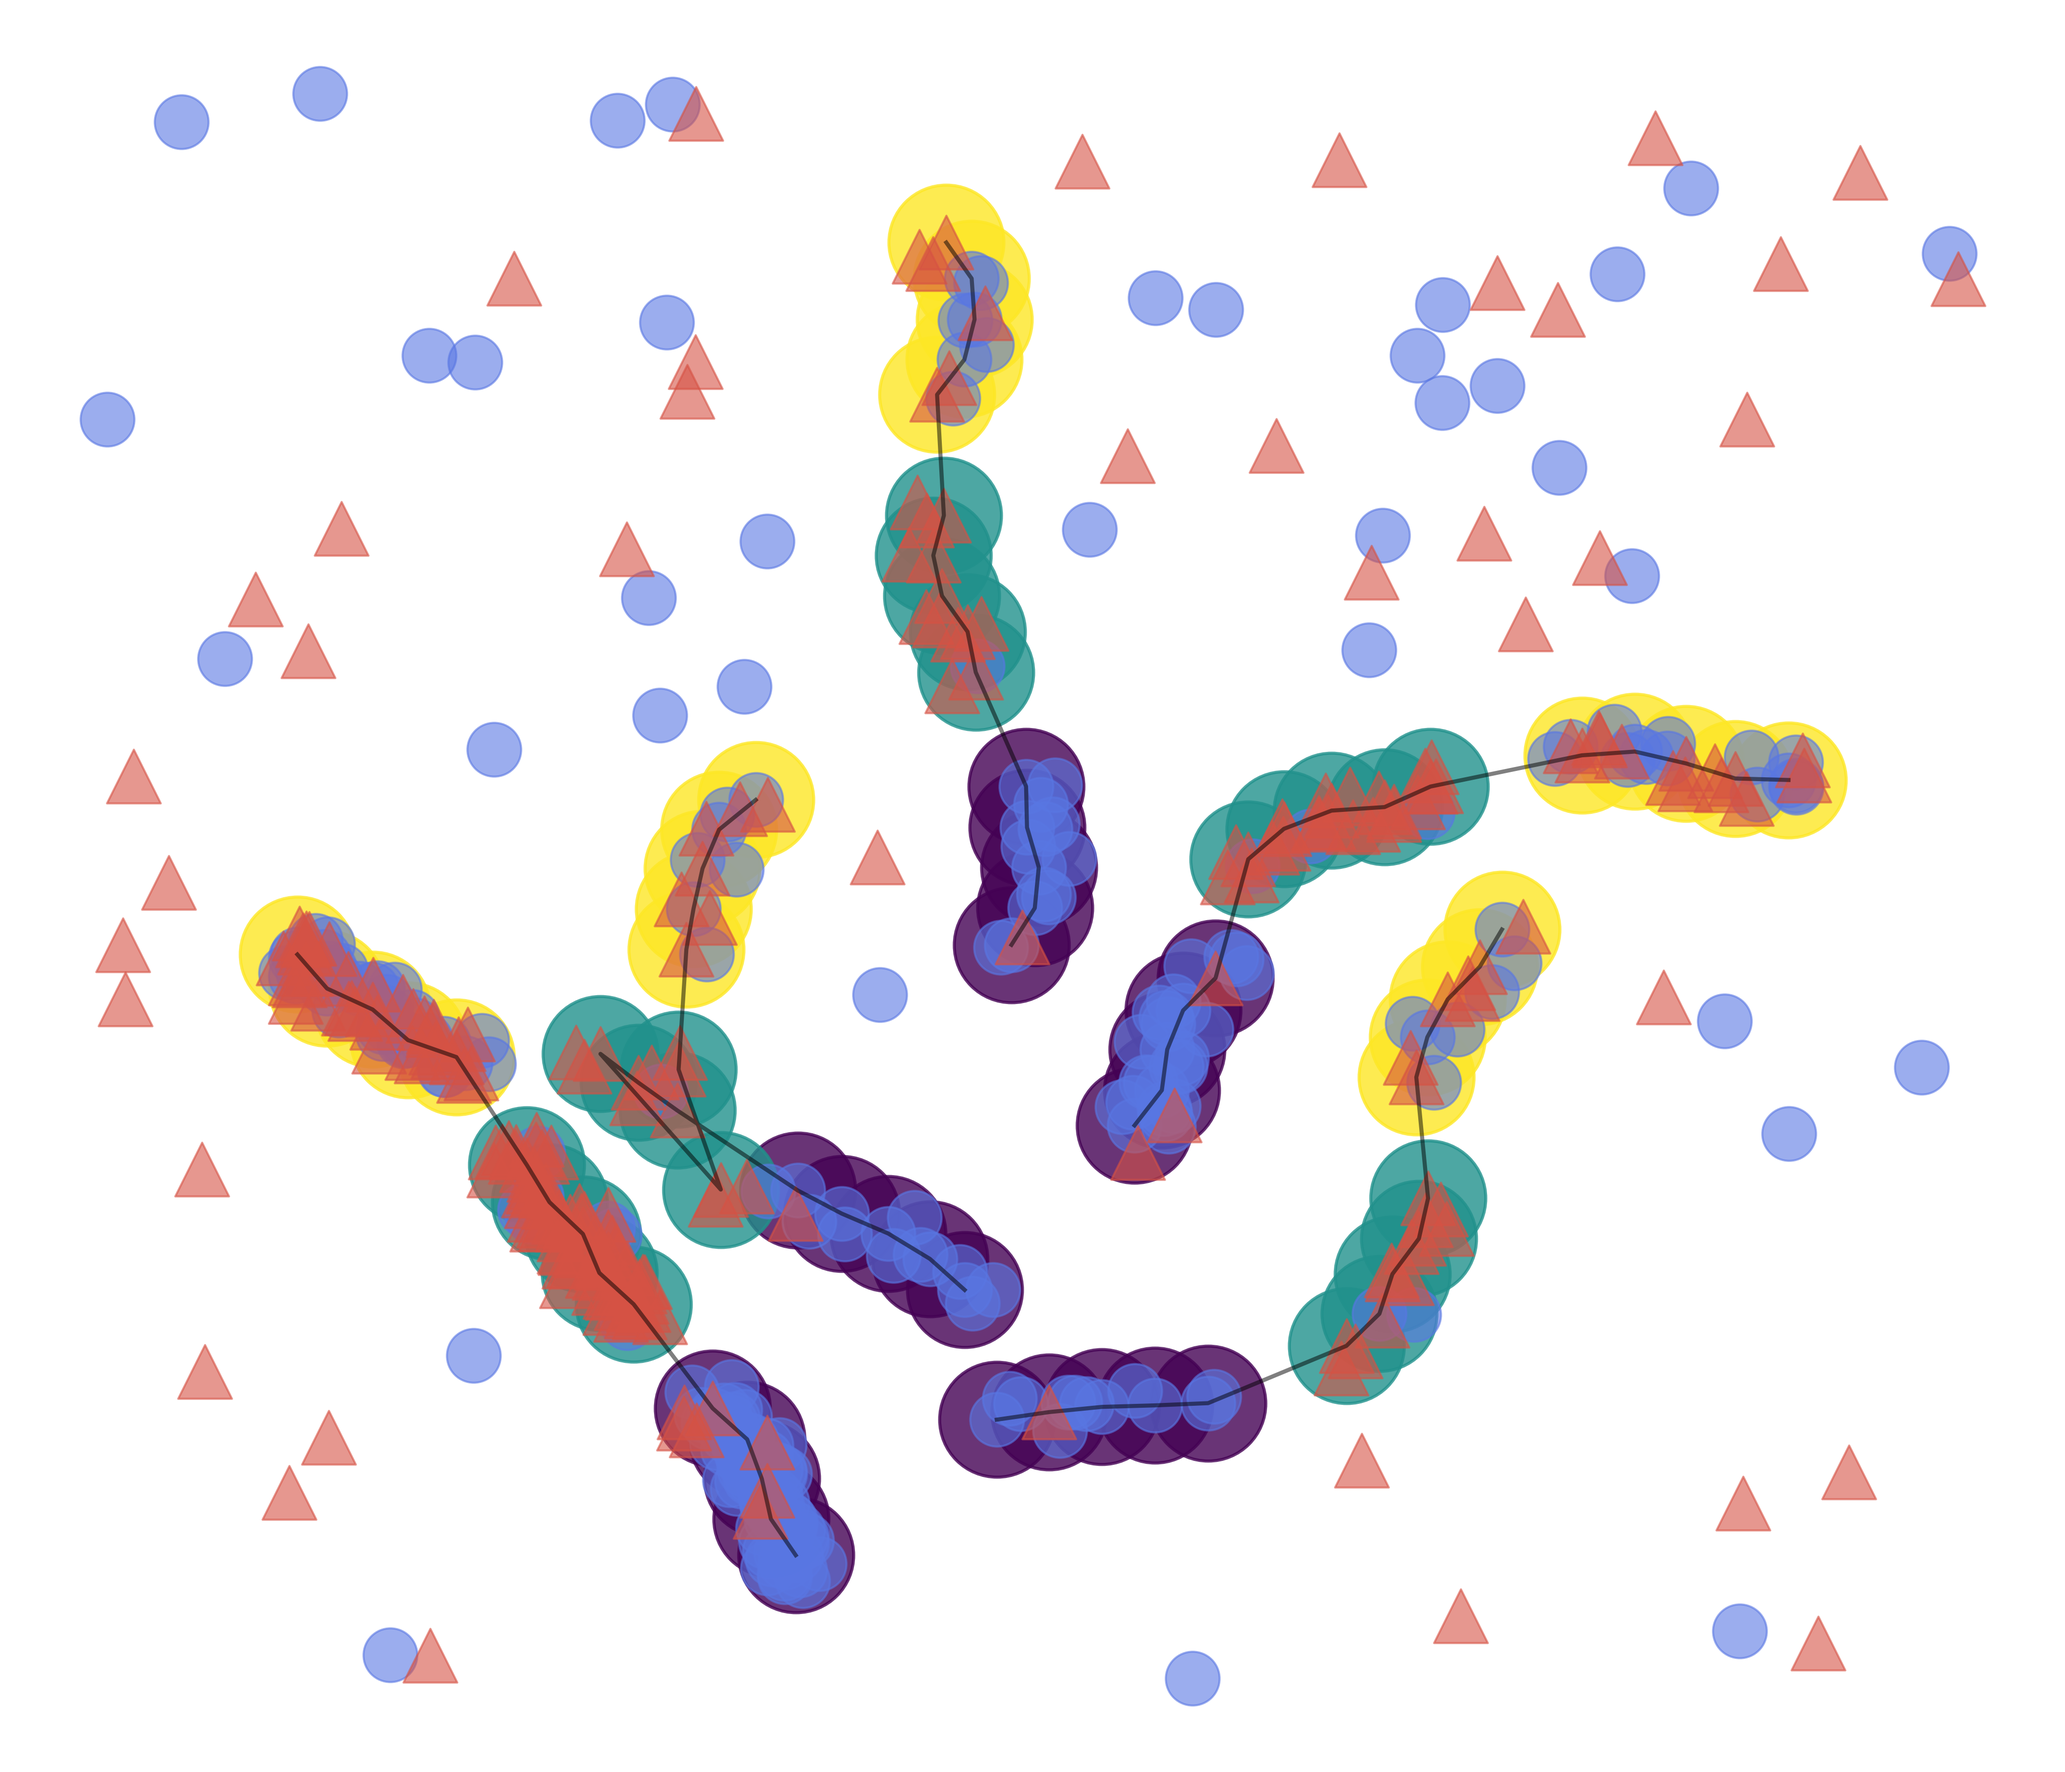
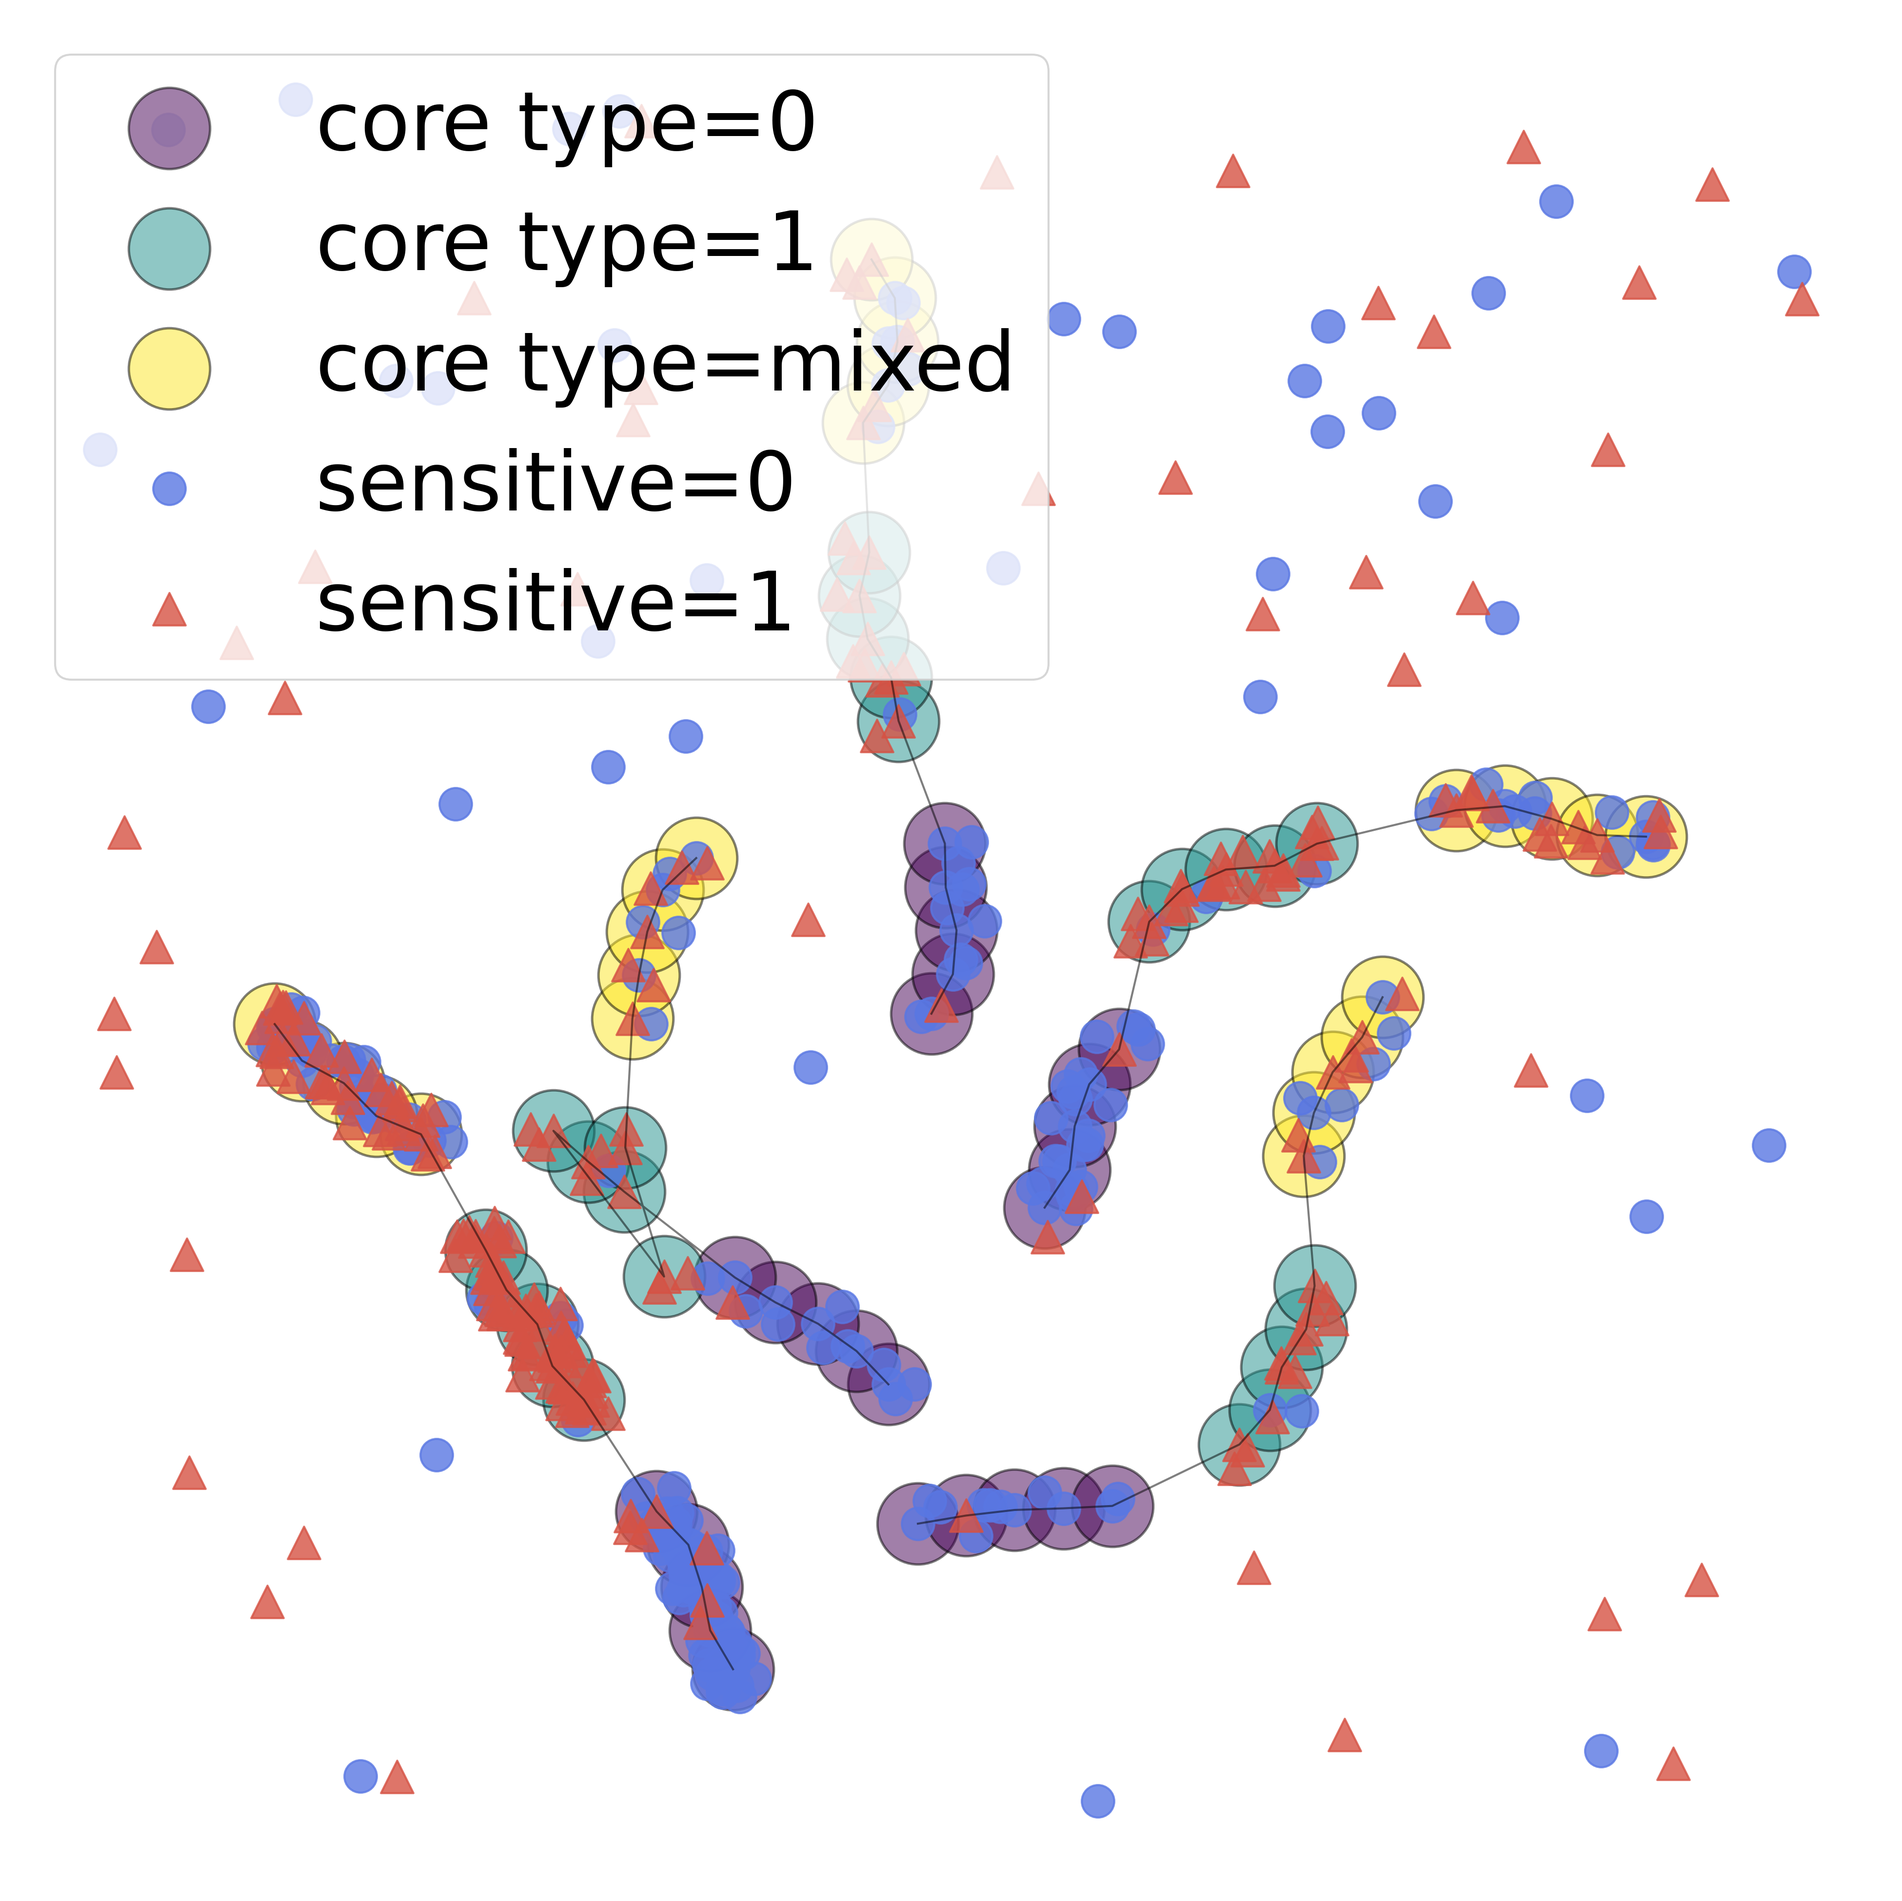
expand README

diff --git a/README.md b/README.md
@@ -59,13 +59,13 @@ python -m figures.generate_debris_example
 
 <p align="center">
   <img src="docs/images/fair_plot.png" width="30%">
-  <img src="docs/images/gt_clusters.png" width="30%">
   <img src="docs/images/density_clusters.png" width="30%">
+  <img src="docs/images/gt_clusters.png" width="30%">
 </p>
 
 <p align="center">
 <sub>
-Example DEBRIS output: generated fair clusters, density-based ground truth, and subgroup-aware cluster assignments.
+Example DEBRIS output: cores generated by a random walk, density-based ground truth, and fair cluster assignments.
 </sub>
 </p>
 
